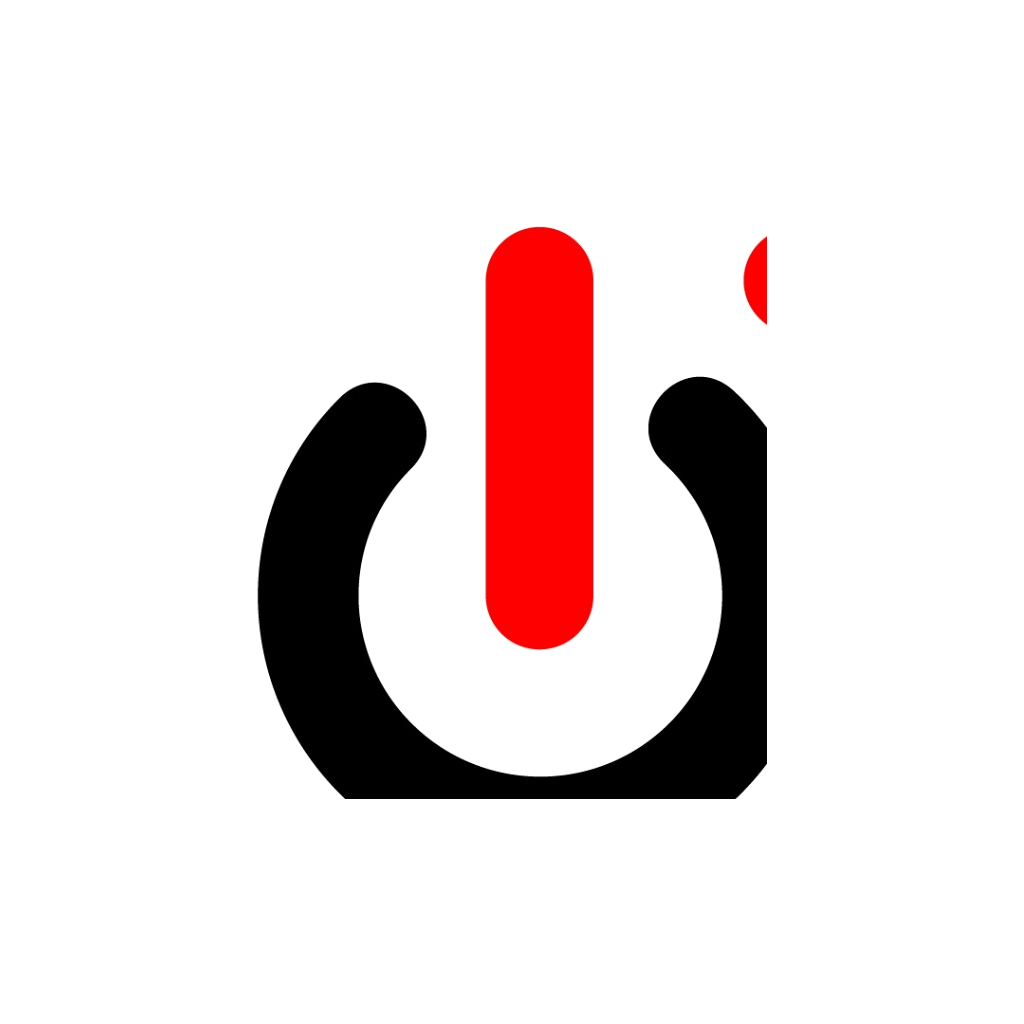
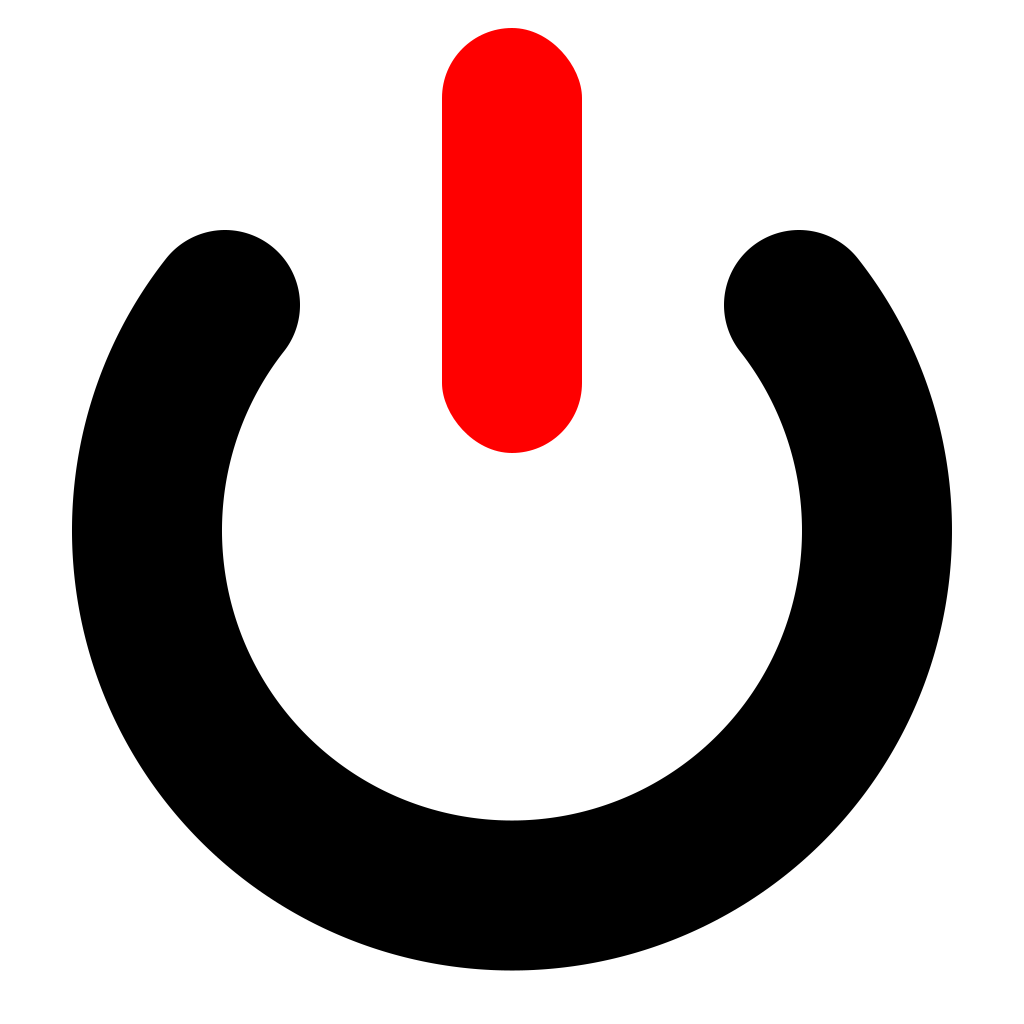
feat: aplicar icono final y version ITC.2

diff --git a/flutter/lib/desktop/pages/desktop_setting_page.dart b/flutter/lib/desktop/pages/desktop_setting_page.dart
@@ -2487,7 +2487,7 @@ class _AboutState extends State<_About> {
                 height: 8.0,
               ),
               SelectionArea(
-                  child: Text('${translate('Version')}: $version ITC.1')
+                  child: Text('${translate('Version')}: $version ITC.2')
                       .marginSymmetric(vertical: 4.0)),
               SelectionArea(
                   child: Text('${translate('Build Date')}: $buildDate')
